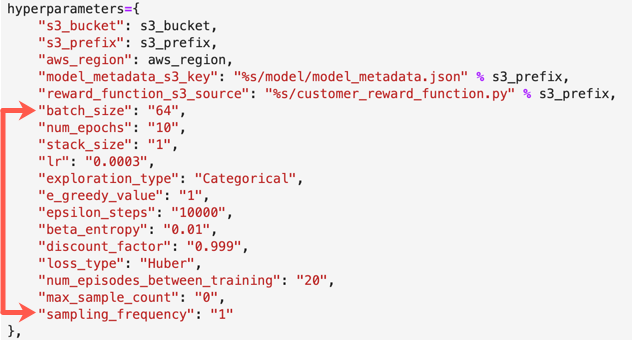
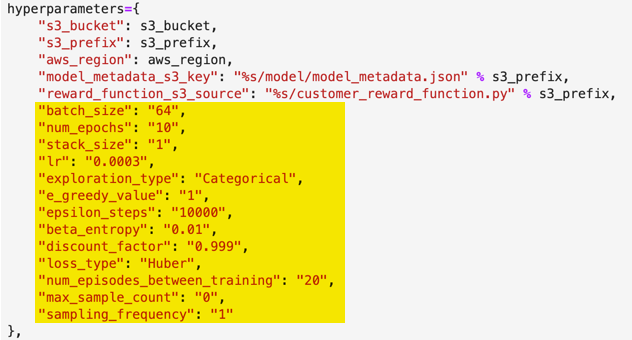
mod hyperparam image

diff --git a/content/400-level-workshop/starttraining.md b/content/400-level-workshop/starttraining.md
@@ -15,27 +15,21 @@ The hyperparameters that you can modify are
 ![Image](/images/400workshop/hyperparams.png)
 
 
+---
+
+**NOTE**
+
+The following hyperparameters are for file references and may cause your code to not work.
+Please refrain from modifications unless in advanced scenarios.
+
 hyperparameters={
                             "s3_bucket": s3_bucket,
                             "s3_prefix": s3_prefix,
                             "aws_region": aws_region,
                             "model_metadata_s3_key": "%s/model/model_metadata.json" % s3_prefix,
                             "reward_function_s3_source": "%s/customer_reward_function.py" % s3_prefix,
-                            "batch_size": "64",
-                            "num_epochs": "10",
-                            "stack_size": "1",
-                            "lr": "0.0003",
-                            "exploration_type": "Categorical",
-                            "e_greedy_value": "1",
-                            "epsilon_steps": "10000",
-                            "beta_entropy": "0.01",
-                            "discount_factor": "0.999",
-                            "loss_type": "Huber",
-                            "num_episodes_between_training": "20",
-                            "max_sample_count": "0",
-                            "sampling_frequency": "1"
  
-
+---
 
 
 
